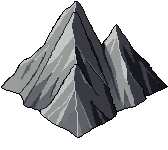
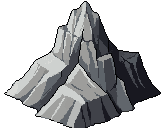
The operator's ten mountains, with sparing and never-together honoured
The peak pool is now the ten pieces chosen from the variety sheet: a tall
peak, a great cone, three broad massifs, two craggy crests, a twin summit
and two small crags. All drawn against the shipped peak, so colour, light
and shading match what is already on the map.

Two of the choices came with conditions, and both are enforced in the
placer rather than left to restraint:

  · SPARINGLY. A piece may carry a rarity, and one craggy crest carries
    0.45 — it has to win a roll before it is even considered, so it turns
    up here and there instead of carrying a whole range. Measured over
    seventeen regions on eight maps it takes 4% of placements.
  · NEVER TOGETHER. A piece may name an only-one group, and the two small
    crags share one: at most one of them stands in any region. Which one
    is decided once per region from its own seed, because leaving it to
    the rotation meant the first always won and the second was never
    drawn at all.

And a determinism bug this uncovered: the pool is sorted tallest-first so
big rock is tried before small, but three of the massifs are the same
height, and an unstable sort left them in whatever order the images
decoded in — the same map drew different mountains after a reload, which
tests/land.mjs caught on save/load. The stem is the tiebreak now.

Suite: mountain, land and art-pipeline all pass. ART_V 28.

diff --git a/js/assets.js b/js/assets.js
@@ -610,7 +610,8 @@ const Assets = {
   _tryMtnPiece(kind, li) {
     if (li >= 16) return;                         // letters a..p; the cascade stops at the first 404
     const img = new Image();
-    img.onload = () => { this.setMtnPiece(kind, img); this._tryMtnPiece(kind, li + 1); };
+    const stem = kind + '-' + String.fromCharCode(97 + li);
+    img.onload = () => { this.setMtnPiece(kind, img, stem); this._tryMtnPiece(kind, li + 1); };
     img.onerror = () => { /* the kit ends here */ };
     img.src = this.mtnKitUrl(kind, String.fromCharCode(97 + li));
   },
@@ -619,7 +620,15 @@ const Assets = {
      canon allows (an integer box downscale, never a resample) */
   MTN_KIT_DIV: { roll: 2, hill: 2 },
   MTN_FLAT_TOP: 0.30,    // a peak wider than this a few rows below its top is a plateau
-  setMtnPiece(kind, img) {
+  /* PER-PIECE RULES, from the operator's own picks. RARE is how often a
+     piece may be chosen at all — one of the craggy peaks was asked for
+     'sparingly', and a piece that reads strongly should not carry a whole
+     range. ONLY_ONE names a group from which at most ONE member may appear
+     in any single region: the two small crags are the same rock at the same
+     size and standing them side by side reads as a copy-paste. */
+  MTN_KIT_RARE: { 'peak-h': 0.45 },
+  MTN_KIT_ONLY_ONE: { 'peak-i': 'smallcrag', 'peak-j': 'smallcrag' },
+  setMtnPiece(kind, img, stem) {
     if (!img || !img.width || !img.height) return false;
     const div = this.MTN_KIT_DIV[kind] || 1;
     const c = document.createElement('canvas');
@@ -727,10 +736,15 @@ const Assets = {
     const bb = (bx1 < 0) ? { x0: 0, y0: 0, x1: c.width - 1, y1: c.height - 1 }
       : { x0: bx0, y0: by0, x1: bx1, y1: by1 };
     const a = this.mtnKit[kind] || (this.mtnKit[kind] = []);
-    a.push({ c, w: c.width, h: c.height, foot, px, bb });
-    // tallest first: the placer tries big rock before small, and only drops
-    // to a knoll where a mountain will not fit
-    a.sort((p, q) => q.h - p.h);
+    a.push({ c, w: c.width, h: c.height, foot, px, bb, stem,
+      rare: (stem && this.MTN_KIT_RARE[stem]) || 1,
+      only: (stem && this.MTN_KIT_ONLY_ONE[stem]) || null });
+    /* TALLEST FIRST, then BY NAME. The placer tries big rock before small and
+       only drops to a knoll where a mountain will not fit — but pieces of
+       EQUAL height need a stable order too, or the pool ends up in whatever
+       sequence the images happened to decode in, and the same map draws
+       different mountains after a reload. The stem is the tiebreak. */
+    a.sort((p, q) => (q.h - p.h) || String(p.stem || '').localeCompare(String(q.stem || '')));
     this.mtnKitRev++;
     if (typeof R !== 'undefined' && R.rebakeAll) { R._mtnArt = null; R._mtnLayerKey = ''; R._mtnDirty = true; }
     return true;

diff --git a/js/render.js b/js/render.js
@@ -4241,6 +4241,17 @@ const R = {
     // the ground line goes on absolutely last, over everything's feet
     if (foots) bands.push({ up: 0, kind: 'foot' });
     let slot = 0, nPeaks = 0;
+    /* WHICH member of an only-one group this region gets, decided ONCE and
+       by the region's own seed. Left to the rotation alone the first member
+       always won and the second was never drawn at all: the exclusion only
+       bites after one is placed, so the later one never got a turn. */
+    const onlyPick = new Map();
+    for (const pl of (kit.peak || [])) {
+      if (!pl.only || onlyPick.has(pl.only)) continue;
+      const mates = (kit.peak || []).filter(q => q.only === pl.only);
+      onlyPick.set(pl.only, mates[(hsh(mates.length * 31, 71) * mates.length) | 0].stem);
+    }
+    const usedOnly = new Set();   // only-one groups already standing in this region
     for (const rank of bands) {
       let x = bx0, prevSaddle = false, any = false;
       while (x <= bx1) {
@@ -4265,6 +4276,12 @@ const R = {
         let piece = null, useFy = -1;
         for (let pi = 0; pi < pool.length; pi++) {
           const cand = pool[(start + pi) % pool.length];
+          /* a SPARING piece has to win a roll before it is even considered,
+             so it turns up here and there instead of carrying a whole range */
+          if (cand.rare < 1 && hsh(slot * 7 + pi, 53) > cand.rare) continue;
+          // …and at most one member of an ONLY-ONE group stands in a region:
+          // two pieces that are the same rock at the same size read as a copy
+          if (cand.only && (usedOnly.has(cand.only) || onlyPick.get(cand.only) !== cand.stem)) continue;
           /* CEIL, not round: a 168px piece is 5.25 tiles wide, and rounding
              down let a quarter-tile of rock hang past the footprint onto
              walkable ground — which is precisely what the honesty pin
@@ -4334,6 +4351,7 @@ const R = {
         }
         if (!piece) { x += 1; continue; }
         if (kind === 'peak') nPeaks++;
+        if (piece.only) usedOnly.add(piece.only);
         plan.push({ piece, kind, tx: x, fy: useFy, up: rank.up, front: kind === 'foot' || rank === bands[bands.length - (foots ? 2 : 1)] });
         prevSaddle = (kind === 'saddle');
         any = true; slot++;

diff --git a/index.html b/index.html
@@ -1600,29 +1600,29 @@
 
 </div>
 
-<script src="js/config.js?v=27"></script>
-<script src="js/config.supabase.js?v=27"></script>
-<script src="js/vendor/supabase.js?v=27"></script>
-<script src="js/backend.js?v=27"></script>
-<script src="js/score.js?v=27"></script>
-<script src="js/cards.js?v=27"></script>
-<script src="js/artstyle.js?v=27"></script>
-<script src="js/sprites.js?v=27"></script>
-<script src="js/formations.js?v=27"></script>
-<script src="js/relics.js?v=27"></script>
-<script src="js/assets.js?v=27"></script>
-<script src="js/dev.js?v=27"></script>
-<script src="js/map.js?v=27"></script>
-<script src="js/buildings.js?v=27"></script>
-<script src="js/units.js?v=27"></script>
-<script src="js/combat.js?v=27"></script>
-<script src="js/ai.js?v=27"></script>
-<script src="js/render.js?v=27"></script>
-<script src="js/defeatart.js?v=27"></script>
-<script src="js/victoryart.js?v=27"></script>
-<script src="js/ui.js?v=27"></script>
-<script src="js/screens.js?v=27"></script>
-<script src="js/tutorial.js?v=27"></script>
-<script src="js/game.js?v=27"></script>
+<script src="js/config.js?v=28"></script>
+<script src="js/config.supabase.js?v=28"></script>
+<script src="js/vendor/supabase.js?v=28"></script>
+<script src="js/backend.js?v=28"></script>
+<script src="js/score.js?v=28"></script>
+<script src="js/cards.js?v=28"></script>
+<script src="js/artstyle.js?v=28"></script>
+<script src="js/sprites.js?v=28"></script>
+<script src="js/formations.js?v=28"></script>
+<script src="js/relics.js?v=28"></script>
+<script src="js/assets.js?v=28"></script>
+<script src="js/dev.js?v=28"></script>
+<script src="js/map.js?v=28"></script>
+<script src="js/buildings.js?v=28"></script>
+<script src="js/units.js?v=28"></script>
+<script src="js/combat.js?v=28"></script>
+<script src="js/ai.js?v=28"></script>
+<script src="js/render.js?v=28"></script>
+<script src="js/defeatart.js?v=28"></script>
+<script src="js/victoryart.js?v=28"></script>
+<script src="js/ui.js?v=28"></script>
+<script src="js/screens.js?v=28"></script>
+<script src="js/tutorial.js?v=28"></script>
+<script src="js/game.js?v=28"></script>
 </body>
 </html>

diff --git a/js/config.js b/js/config.js
@@ -16,7 +16,7 @@ const T = {
 
 const CFG = {
   SAVE_VERSION: 2,     // bump when the save shape changes; loadJSON migrates older saves
-  ART_V: 27,           // cache-buster on every art URL (?v=N) — bump when a PNG in
+  ART_V: 28,           // cache-buster on every art URL (?v=N) — bump when a PNG in
                        // v16: the gathering stations — lumber/quarry/lodge l1-l3
                        // as unmanned worked-yard scenes (structure at back,
                        // open stain front-center where the workers stand)
